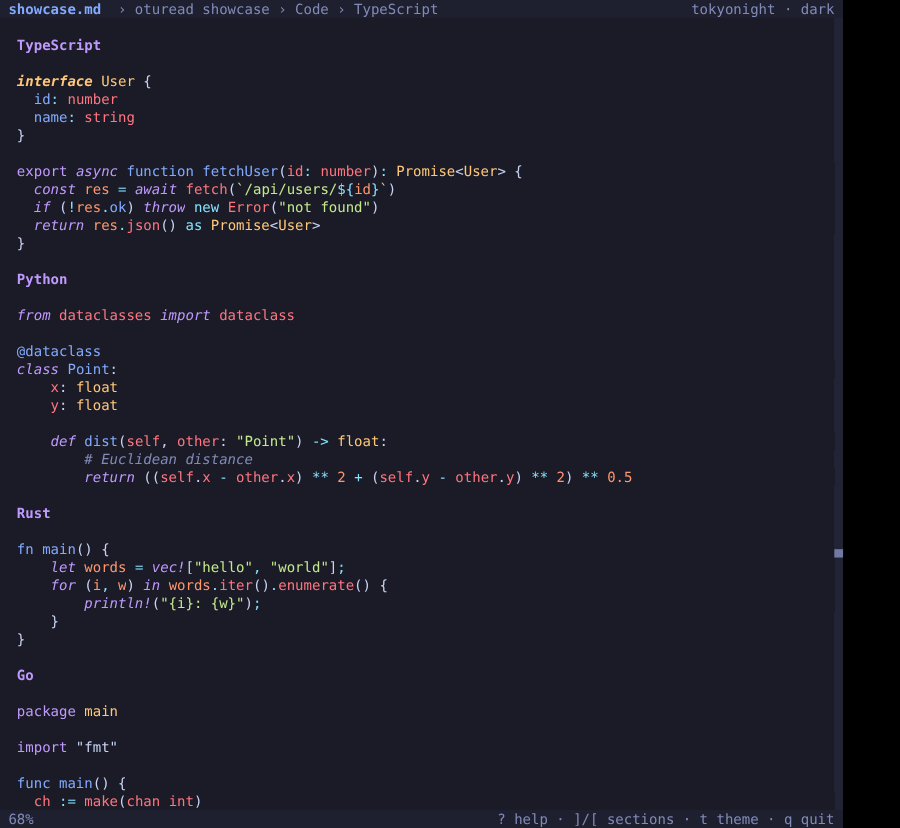
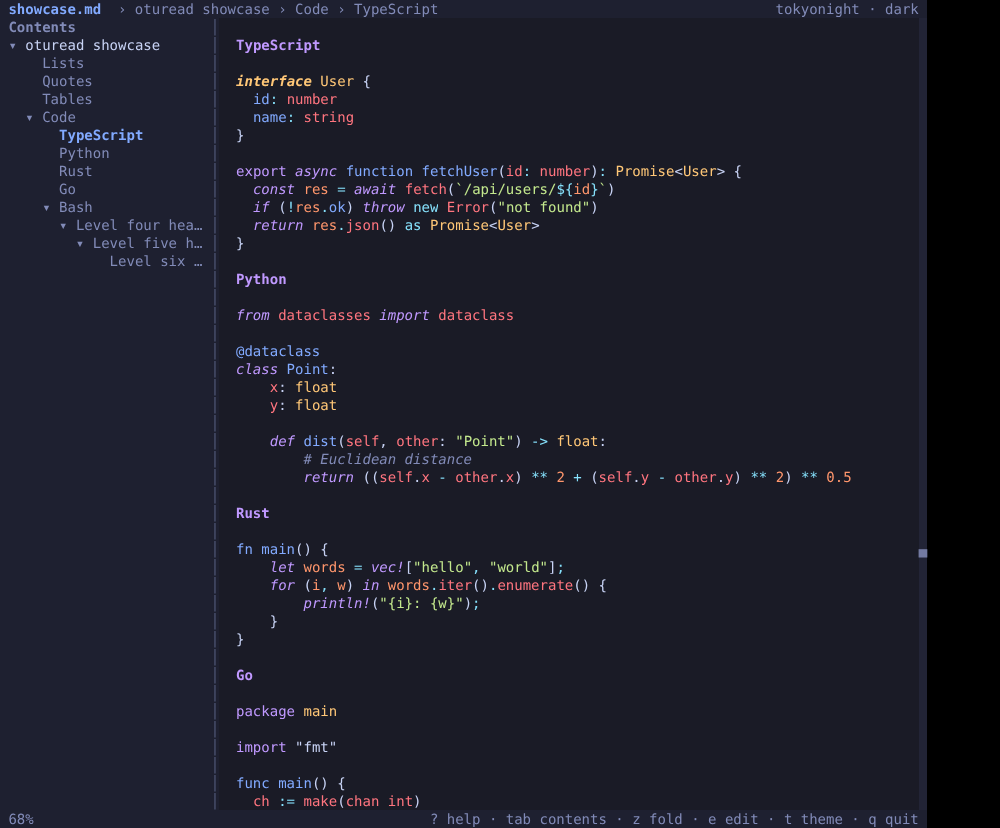
Document the table of contents and folding
Adds a 'Long documents' section with the sidebar and folding keys, a
screenshot of a folded overview, and refreshes the existing
screenshots, which now include the sidebar.

Claude-Session: https://claude.ai/code/session_01CMfA6ESeQvg9UZWwu1soB3

diff --git a/README.md b/README.md
@@ -22,6 +22,8 @@ style rules, and opencode's themes.
 - **Heading colours by level**: H1 is bold and underlined, and H2 through H6
   each get their own colour. A breadcrumb in the title bar shows which
   section you're reading.
+- **Table of contents** in a sidebar, and **collapsible sections**, for
+  finding your way around long documents (see below).
 - **Lists**: a different bullet at each nesting depth (`•` `◦` `▸`), coloured
   numbers, and `☐`/`☑` task checkboxes.
 - **Blockquotes** have a coloured bar and italic text.
@@ -73,6 +75,28 @@ emacs, micro, kak and others; `FILE:LINE` for helix; and `--wait --goto` for
 VS Code, Cursor and similar. When the editor exits, oturead reloads the file
 and scrolls back to the same place.
 
+### Long documents
+
+A table of contents sits on the left when the terminal is at least 100
+columns wide. Press `o` to show or hide it. It highlights the section you're
+reading and follows you as you scroll.
+
+Press `Tab` to move into it. Then `j`/`k` move between sections and scroll
+the document with you, `Space` folds or unfolds a section, `h`/`l` fold and
+unfold, and `Enter` opens the section and takes you back to the document.
+You can also click an entry to jump to it, or click its `▾`/`▸` marker to
+fold it.
+
+![folding](docs/screenshot-folding.png)
+
+Folding hides a section's body (and its subsections) and leaves its heading
+as `▸ Heading ⋯`:
+
+- `z` folds or unfolds the section at the top of the screen.
+- `1` to `6` fold every section at that depth, so `2` gives an overview of
+  the top-level sections. `0` unfolds everything.
+- `Z` switches between that overview and everything unfolded.
+
 ### Keys
 
 | Key                     | Action                         |
@@ -82,6 +106,11 @@ and scrolls back to the same place.
 | `space` / `b`, PgDn/PgUp| full page down / up            |
 | `g` / `G`, Home/End     | top / bottom                   |
 | `]` / `[`, `n` / `p`    | next / previous heading        |
+| `o`                     | show / hide the table of contents |
+| `Tab`                   | focus the table of contents (`j`/`k`, `Space`, `h`/`l`, `Enter`, `Esc`) |
+| `z`                     | fold / unfold the section at the top of the screen |
+| `1`–`6`, `0`            | fold to that depth / unfold all |
+| `Z`                     | fold to an overview / unfold all |
 | `e`                     | edit the file in `$VISUAL` / `$EDITOR` at the line you're reading; returns there when you quit the editor |
 | `t`                     | theme picker: type to fuzzy-search, ↑/↓ to preview live, Enter to apply, Esc to revert |
 | `m`                     | toggle dark / light            |
@@ -101,12 +130,15 @@ Themes in `~/.config/opencode/themes/` are picked up too.
 |------------------------|---------|
 | `src/index.tsx`        | CLI: parses arguments, picks the source (file, watch, stdin, or simulated stream) and starts tree-sitter warming up. When stdin is a pipe, keyboard input is read from `/dev/tty`. |
 | `src/App.tsx`          | The UI: title bar with breadcrumb, a scrollbox around `<markdown>`, status bar, help overlay, and key bindings. |
+| `src/Toc.tsx`          | The table of contents sidebar. |
+| `src/outline.ts`       | Parses headings into the section tree behind the table of contents, the breadcrumb and folding. |
+| `src/fold.ts`          | Builds the folded markdown for collapsed sections, and maps its lines back to the source. |
 | `src/ThemePicker.tsx`  | The floating, fuzzy-searchable theme list with live preview. |
 | `src/theme.ts`         | Resolves opencode v1 themes and builds the tree-sitter style table (based on opencode's `syntax.ts`). |
 | `src/markdown-ext.ts`  | Small additions to OpenTUI's `MarkdownRenderable`: underline and highlight, bullet and checkbox markers, quote bar colour, and painting text on the first frame. |
 | `src/highlight.ts`     | Registers the grammars and preloads the ones the document needs, while the renderer is still starting up. |
 | `src/progressive.ts`   | Picks the leading blocks of a large document to render first. |
-| `src/position.ts`      | Maps between rendered rows and source lines, for the editor integration. |
+| `src/position.ts`      | Maps between rendered rows and source lines, for the editor, folding and the table of contents. |
 | `src/editor.ts`        | Works out the editor command and launches it at a given line. |
 | `src/fuzzy.ts`         | The fuzzy matcher used by the theme picker. |
 | `src/parsers-config.ts`| The tree-sitter grammar list from opencode, plus extra fence aliases (`shell`, `golang`, `tf`, `jsonc`, …). |
